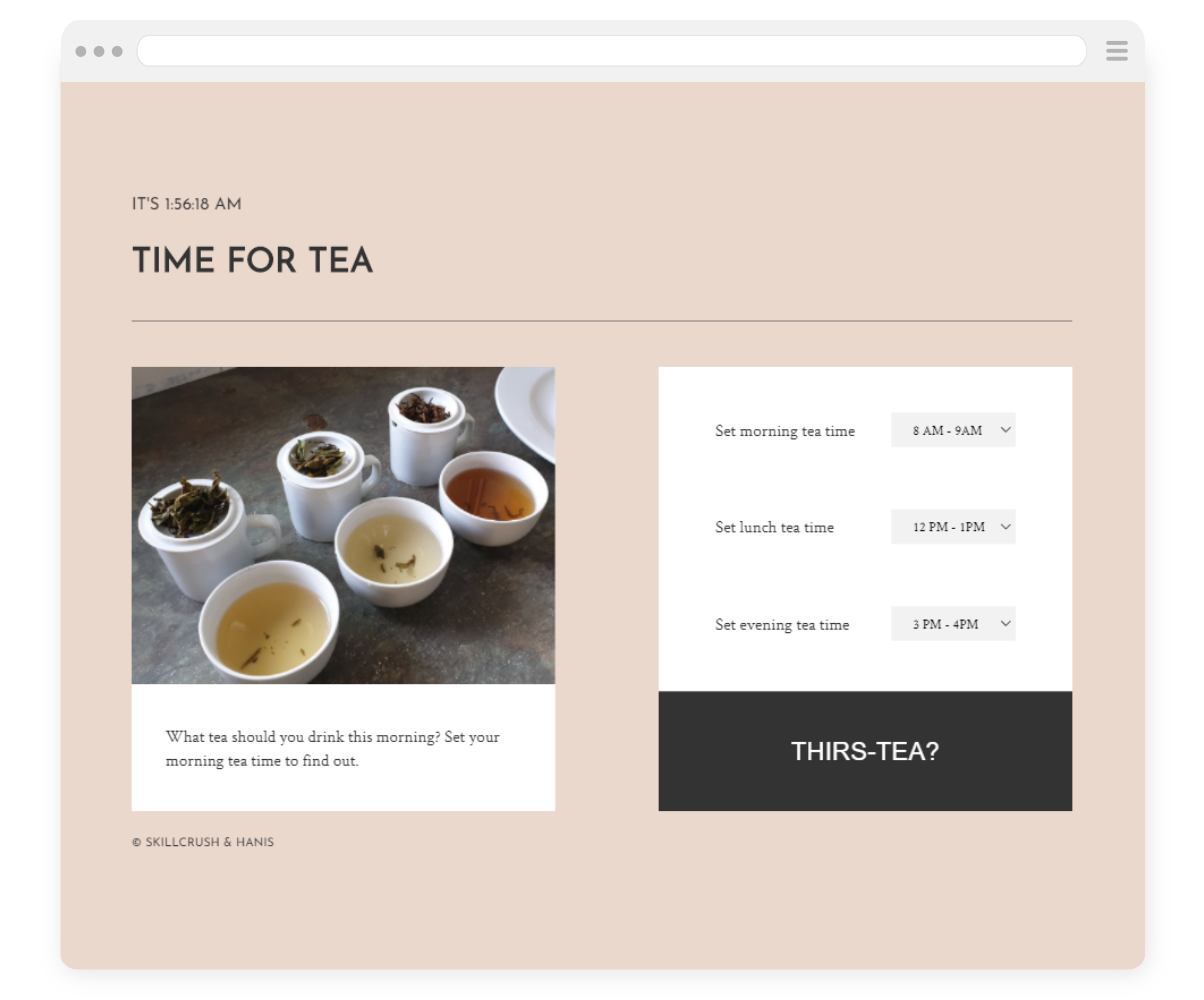
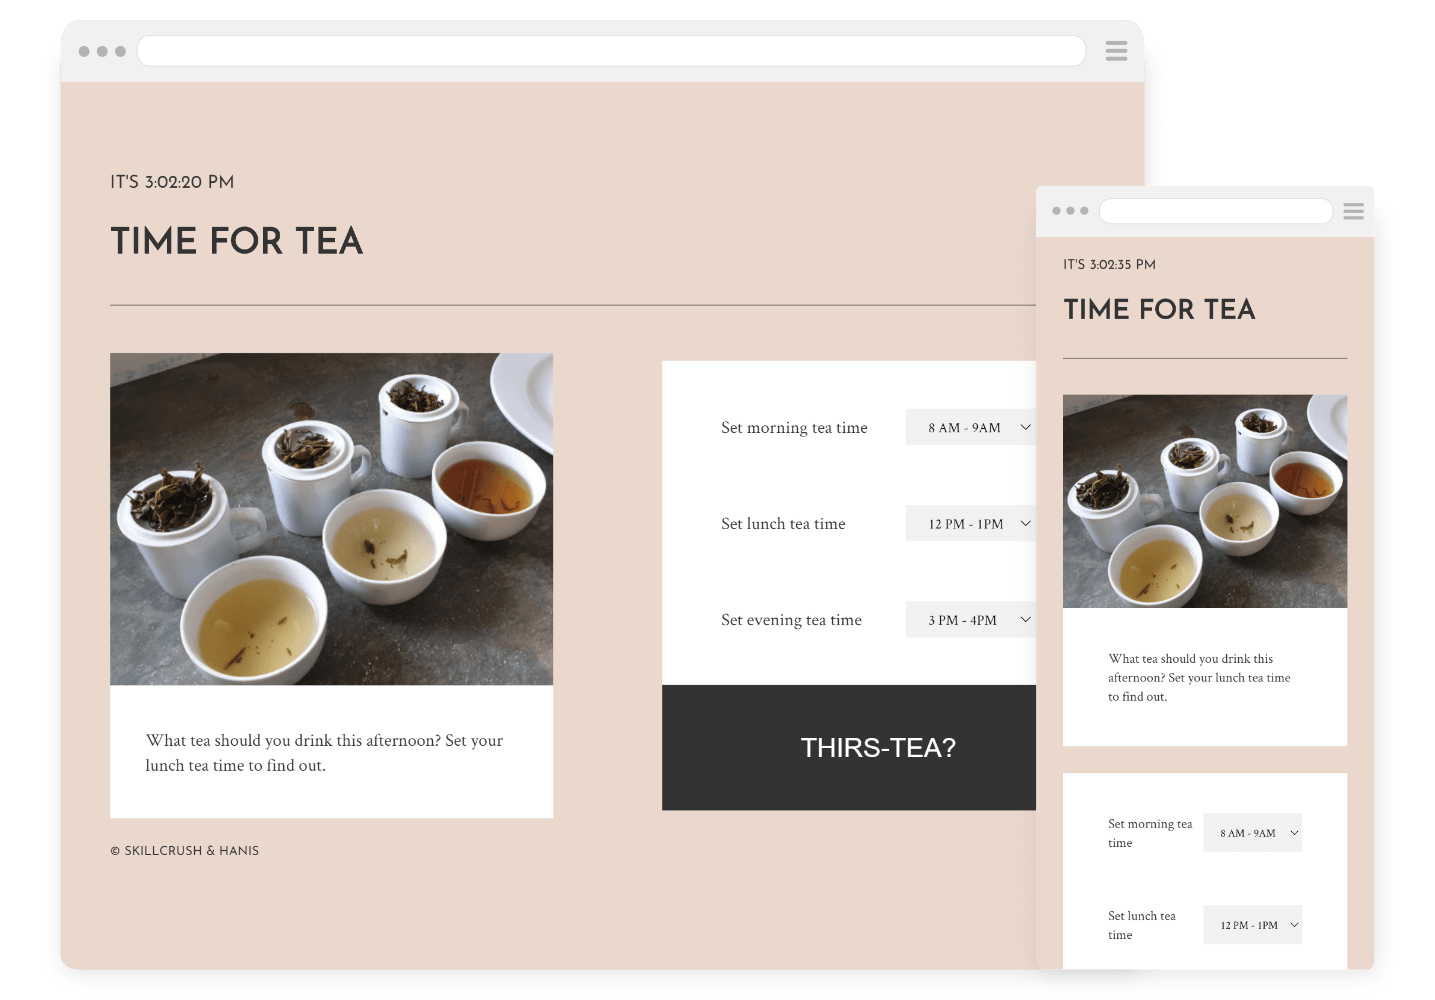
Update position and images of Tea Time project

diff --git a/work/index.html b/work/index.html
@@ -58,59 +58,11 @@
         <div class="wrapper-container">
           <h1>Work</h1>
           <div class="content-wrapper">
-            <a href="nexus-overview.html">
+            <a href="../work/tea-time-overview.html">
               <article>
                 <img
-                  src="../img/nexus-preview.png"
-                  alt="Nexus website previews on desktop and phone browsers"
-                  data-aos="fade-right"
-                  data-aos-duration="1500"
-                />
-                <div
-                  class="work-text"
-                  data-aos="fade-in"
-                  data-aos-duration="1500"
-                >
-                  <h3>Nexus</h3>
-                  <span>HTML</span>
-                  <span>CSS</span>
-                  <p>
-                    Nexus is a fictional space travel website that is coded with
-                    HTML and CSS. It is fully responsive across mobile, tablet
-                    and desktop devices.
-                  </p>
-                </div>
-              </article>
-            </a>
-            <a href="rogue-pickings-overview.html">
-              <article id="article-b" data-aos-delay="300">
-                <img
-                  src="../img/rogue-pickings-preview.png"
-                  alt="Rogue Pickings website previews on desktop and phone browsers"
-                  data-aos="fade-left"
-                  data-aos-duration="1500"
-                />
-                <div
-                  class="work-text"
-                  data-aos="fade-in"
-                  data-aos-duration="1500"
-                >
-                  <h3>Rogue Pickings</h3>
-                  <span>HTML</span>
-                  <span>CSS</span>
-                  <p>
-                    Rogue Pickings is a website for an imaginary food truck
-                    company. It features a responsive one-page website coded
-                    using HTML and CSS.
-                  </p>
-                </div>
-              </article>
-            </a>
-            <a href="../work/tea-time-overview.html">
-              <article data-aos-delay="500">
-                <img
                   src="../img/tea-time-preview.png"
-                  alt="Tea Time website preview on desktop browser"
+                  alt="Tea Time website previews on desktop and mobile browsers"
                   data-aos="fade-right"
                   data-aos-duration="1500"
                 />
@@ -132,8 +84,56 @@
                 </div>
               </article>
             </a>
+            <a href="nexus-overview.html">
+              <article id="article-b" data-aos-delay="300">
+                <img
+                  src="../img/nexus-preview.png"
+                  alt="Nexus website previews on desktop and phone browsers"
+                  data-aos="fade-left"
+                  data-aos-duration="1500"
+                />
+                <div
+                  class="work-text"
+                  data-aos="fade-in"
+                  data-aos-duration="1500"
+                >
+                  <h3>Nexus</h3>
+                  <span>HTML</span>
+                  <span>CSS</span>
+                  <p>
+                    Nexus is a fictional space travel website that is coded with
+                    HTML and CSS. It is fully responsive across mobile, tablet
+                    and desktop devices.
+                  </p>
+                </div>
+              </article>
+            </a>
+            <a href="rogue-pickings-overview.html">
+              <article data-aos-delay="500">
+                <img
+                  src="../img/rogue-pickings-preview.png"
+                  alt="Rogue Pickings website previews on desktop and phone browsers"
+                  data-aos="fade-right"
+                  data-aos-duration="1500"
+                />
+                <div
+                  class="work-text"
+                  data-aos="fade-in"
+                  data-aos-duration="1500"
+                >
+                  <h3>Rogue Pickings</h3>
+                  <span>HTML</span>
+                  <span>CSS</span>
+                  <p>
+                    Rogue Pickings is a website for an imaginary food truck
+                    company. It features a responsive one-page website coded
+                    using HTML and CSS.
+                  </p>
+                </div>
+              </article>
+            </a>
             <a href="jubilee-austen-overview.html">
-              <article id="article-b" data-aos-delay="500">
+              <article id="article-b" data-aos-delay="700">
                 <img
                   src="../img/jubilee-austen-preview.png"
                   alt="Jubilee Austen website preview on desktop browser"

diff --git a/index.html b/index.html
@@ -118,12 +118,38 @@
         <div class="wrapper-container">
           <h1>Work</h1>
           <div class="content-wrapper">
-            <a href="work/nexus-overview.html">
+            <a href="work/tea-time-overview.html">
               <article>
+                <img
+                  src="img/tea-time-preview.png"
+                  alt="Tea Time website previews on desktop and phone browsers"
+                  data-aos="fade-right"
+                  data-aos-duration="1500"
+                />
+                <div
+                  class="work-text"
+                  data-aos="fade-in"
+                  data-aos-duration="1500"
+                >
+                  <h3>Tea Time</h3>
+                  <span>JavaScript</span>
+                  <span>HTML</span>
+                  <span>CSS</span>
+                  <p>
+                    Tea Time is a JavaScript-based interactive clock that
+                    suggests a type of tea based on the time of the day. Users
+                    can input custom tea times or click on the "Thirs-tea?"
+                    button for a special drink suggestion.
+                  </p>
+                </div>
+              </article>
+            </a>
+            <a href="work/nexus-overview.html">
+              <article id="article-b" data-aos-delay="300">
                 <img
                   src="img/nexus-preview.png"
                   alt="Nexus website previews on desktop and phone browsers"
-                  data-aos="fade-right"
+                  data-aos="fade-left"
                   data-aos-duration="1500"
                 />
                 <div
@@ -143,11 +169,11 @@
               </article>
             </a>
             <a href="work/rogue-pickings-overview.html">
-              <article id="article-b" data-aos-delay="300">
+              <article data-aos-delay="500">
                 <img
                   src="img/rogue-pickings-preview.png"
                   alt="Rogue Pickings website previews on desktop and phone browsers"
-                  data-aos="fade-left"
+                  data-aos="fade-right"
                   data-aos-duration="1500"
                 />
                 <div
@@ -162,32 +188,6 @@
                     Rogue Pickings is a website for an imaginary food truck
                     company. It features a responsive one-page website coded
                     using HTML and CSS.
-                  </p>
-                </div>
-              </article>
-            </a>
-            <a href="work/tea-time-overview.html">
-              <article data-aos-delay="500">
-                <img
-                  src="img/tea-time-preview.png"
-                  alt="Tea Time website preview on desktop browser"
-                  data-aos="fade-right"
-                  data-aos-duration="1500"
-                />
-                <div
-                  class="work-text"
-                  data-aos="fade-in"
-                  data-aos-duration="1500"
-                >
-                  <h3>Tea Time</h3>
-                  <span>JavaScript</span>
-                  <span>HTML</span>
-                  <span>CSS</span>
-                  <p>
-                    Tea Time is a JavaScript-based interactive clock that
-                    suggests a type of tea based on the time of the day. Users
-                    can input custom tea times or click on the "Thirs-tea?"
-                    button for a special drink suggestion.
                   </p>
                 </div>
               </article>

diff --git a/work/tea-time-overview.html b/work/tea-time-overview.html
@@ -66,10 +66,22 @@
           >
             <div class="image-slides-inner">
               <img
-                src="../img/tea-time-preview.png"
-                alt="Tea Time page preview on desktop browser"
+                src="../img/tea-time-pc.png"
+                alt="Tea Time website preview on desktop browser"
                 class="active"
               />
+              <img
+                src="../img/tea-time-tablet.png"
+                alt="Tea Time website preview on tablet browser"
+              />
+              <img
+                src="../img/tea-time-ipx.png"
+                alt="Tea Time website preview on iPhone X browser"
+              />
+            </div>
+            <div class="image-slides-buttons">
+              <a href="#" class="prev"><i class="fas fa-angle-left"></i></a>
+              <a href="#" class="next"><i class="fas fa-angle-right"></i></a>
             </div>
           </div>
           <div
@@ -120,10 +132,10 @@
             </div>
           </div>
           <div class="pagination">
-            <a href="rogue-pickings-overview.html" class="button"
+            <a href="jubilee-austen-overview.html" class="button"
               ><i class="fas fa-chevron-left"></i> Prev</a
             >
-            <a href="jubilee-austen-overview.html" class="button"
+            <a href="nexus-overview.html" class="button"
               >Next <i class="fas fa-chevron-right"></i
             ></a>
           </div>

diff --git a/work/jubilee-austen-overview.html b/work/jubilee-austen-overview.html
@@ -117,10 +117,10 @@
             </div>
           </div>
           <div class="pagination">
-            <a href="tea-time-overview.html" class="button"
+            <a href="rogue-pickings-overview.html" class="button"
               ><i class="fas fa-chevron-left"></i> Prev</a
             >
-            <a href="nexus-overview.html" class="button"
+            <a href="tea-time-overview.html" class="button"
               >Next <i class="fas fa-chevron-right"></i
             ></a>
           </div>

diff --git a/work/rogue-pickings-overview.html b/work/rogue-pickings-overview.html
@@ -133,7 +133,7 @@
             <a href="nexus-overview.html" class="button"
               ><i class="fas fa-chevron-left"></i> Prev</a
             >
-            <a href="tea-time-overview.html" class="button"
+            <a href="jubilee-austen-overview.html" class="button"
               >Next <i class="fas fa-chevron-right"></i
             ></a>
           </div>

diff --git a/work/nexus-overview.html b/work/nexus-overview.html
@@ -130,7 +130,7 @@
             </div>
           </div>
           <div class="pagination">
-            <a href="jubilee-austen-overview.html" class="button"
+            <a href="tea-time-overview.html" class="button"
               ><i class="fas fa-chevron-left"></i> Prev</a
             >
             <a href="rogue-pickings-overview.html" class="button"
